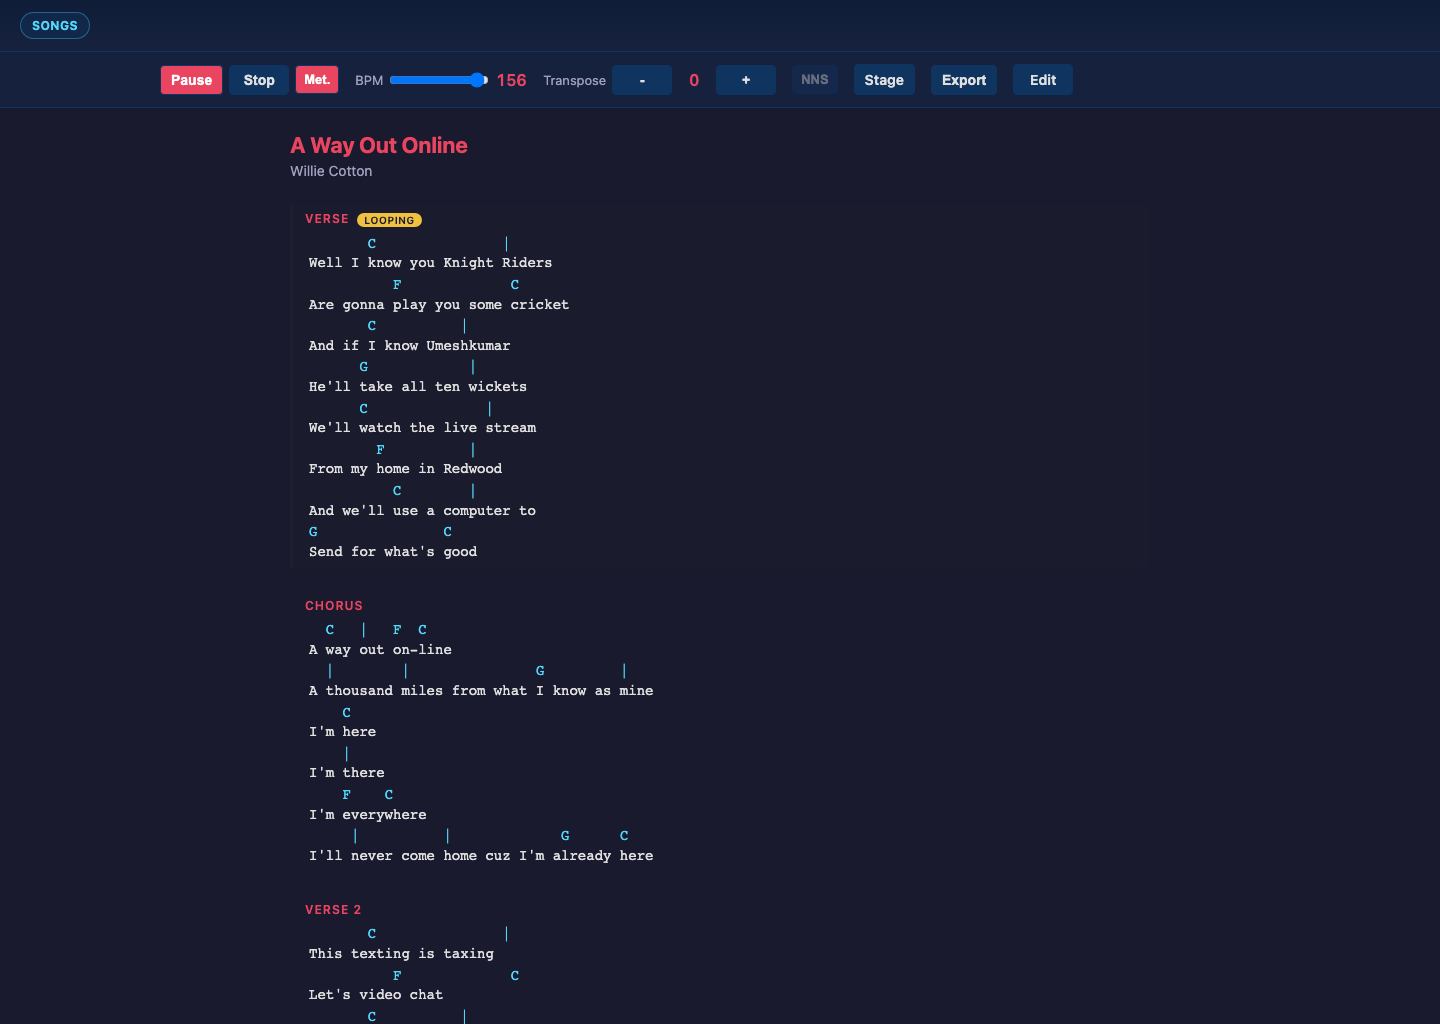
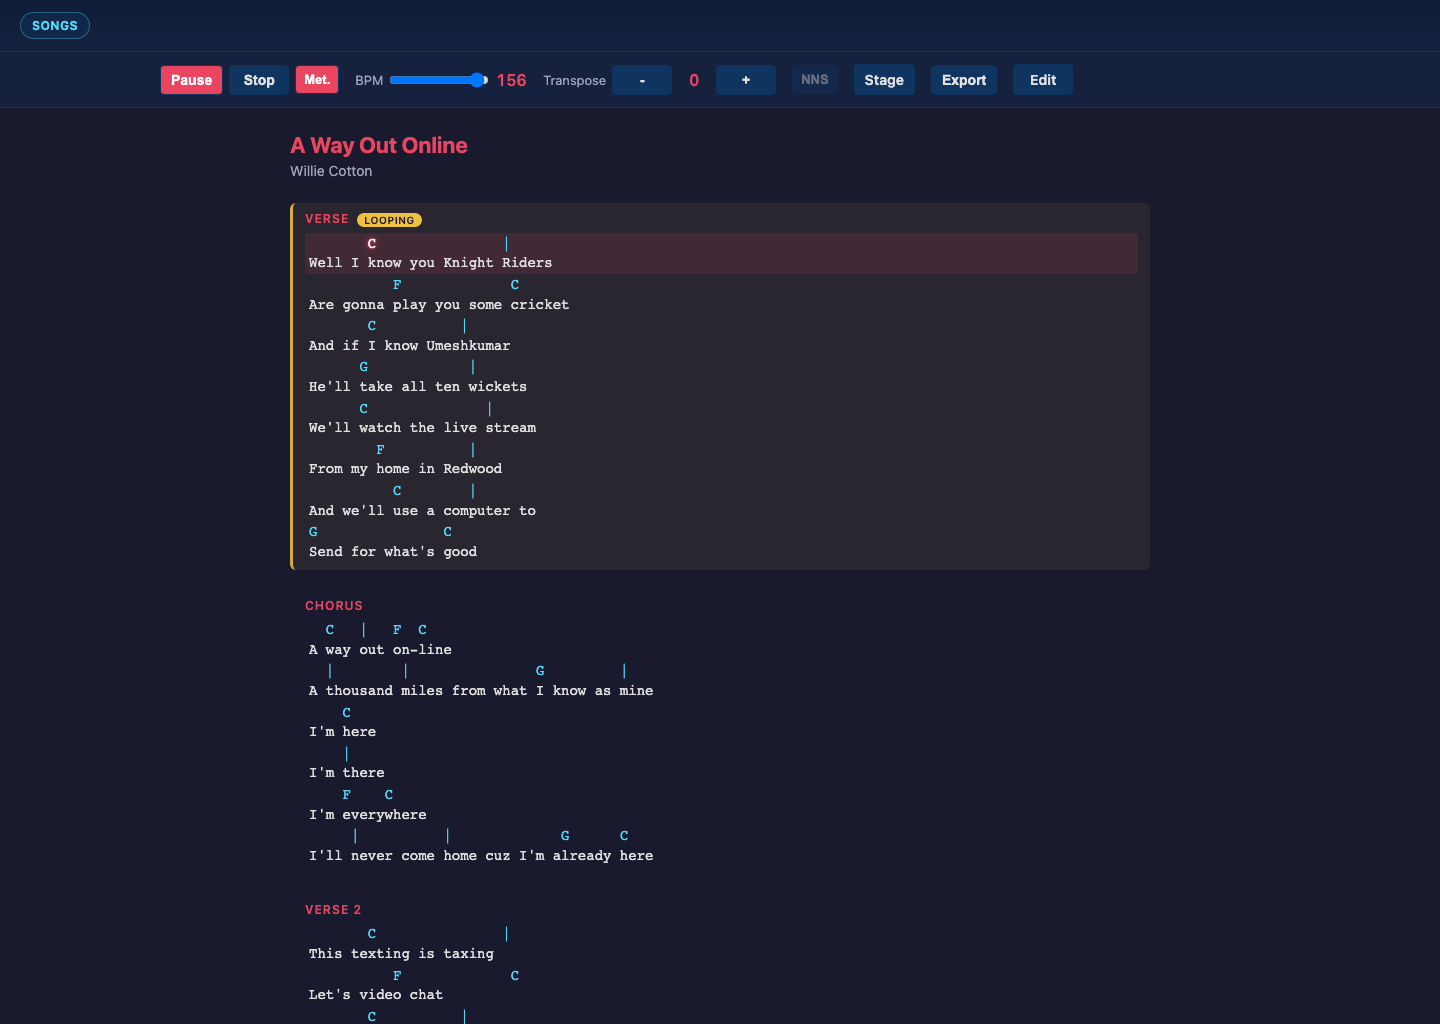
add highlighted sections to playback screenshot in README

Changed region(s): [[0.1875, 0.2188, 0.8125, 0.2812]]

diff --git a/e2e/readme-screenshots.spec.ts b/e2e/readme-screenshots.spec.ts
@@ -107,6 +107,8 @@ test('README: playback controls and section vamp loop', async ({ page }) => {
 
   await page.locator('.section-header').first().dblclick()
   await expect(page.locator('.section').first()).toHaveClass(/vamped-section/, { timeout: 3000 })
+  await expect(page.locator('.section').first()).toHaveClass(/active-section/, { timeout: 10000 })
+  await expect(page.locator('.section').first().locator('.chord-marker.active-marker').first()).toBeVisible({ timeout: 10000 })
 
   await page.screenshot({ path: 'screenshots/readme-playback-loop.png' })
 })

diff --git a/README.md b/README.md
@@ -35,7 +35,7 @@ The edit view keeps source and rendered output side-by-side, so each change stay
 
 ### 4) Play the chart and loop a section
 
-Playback advances through parsed positions while highlighting active markers in the chart. Double-clicking a section header enables vamp mode for that section, which is useful for rehearsal and timing checks. In audio terms, you hear the same cadence cycling until vamp is cleared, with the optional metronome click staying locked to the loop.
+Playback advances through parsed positions while highlighting the active section and chord marker in the chart. Double-clicking a section header enables vamp mode for that section, which is useful for rehearsal and timing checks. In audio terms, you hear the same cadence cycling until vamp is cleared, with the optional metronome click staying locked to the loop.
 
 ![Playback with section loop](screenshots/readme-playback-loop.png)
 

diff --git a/CLAUDE.md b/CLAUDE.md
@@ -74,7 +74,7 @@ Two test systems configured via `vitest.config.ts` and `playwright.config.ts`:
   - `e2e/song-detail.spec.ts` — detail page, stage route link, export actions, transpose, Nashville toggle
   - `e2e/song-edit.spec.ts` — editor, chart-link navigation, live preview, save
   - `e2e/playback.spec.ts` — play/pause/stop, click-to-seek, section vamp, performance-page minimal controls
-  - `e2e/readme-screenshots.spec.ts` — curated screenshot scenarios for README sections (`readme-*.png`, including `readme-performance-mode.png` and `readme-export.png`)
+  - `e2e/readme-screenshots.spec.ts` — curated screenshot scenarios for README sections (`readme-*.png`, including `readme-performance-mode.png` and `readme-export.png`); playback capture waits for both active section and active chord highlight
 
 ### README Screenshot Workflow
 
